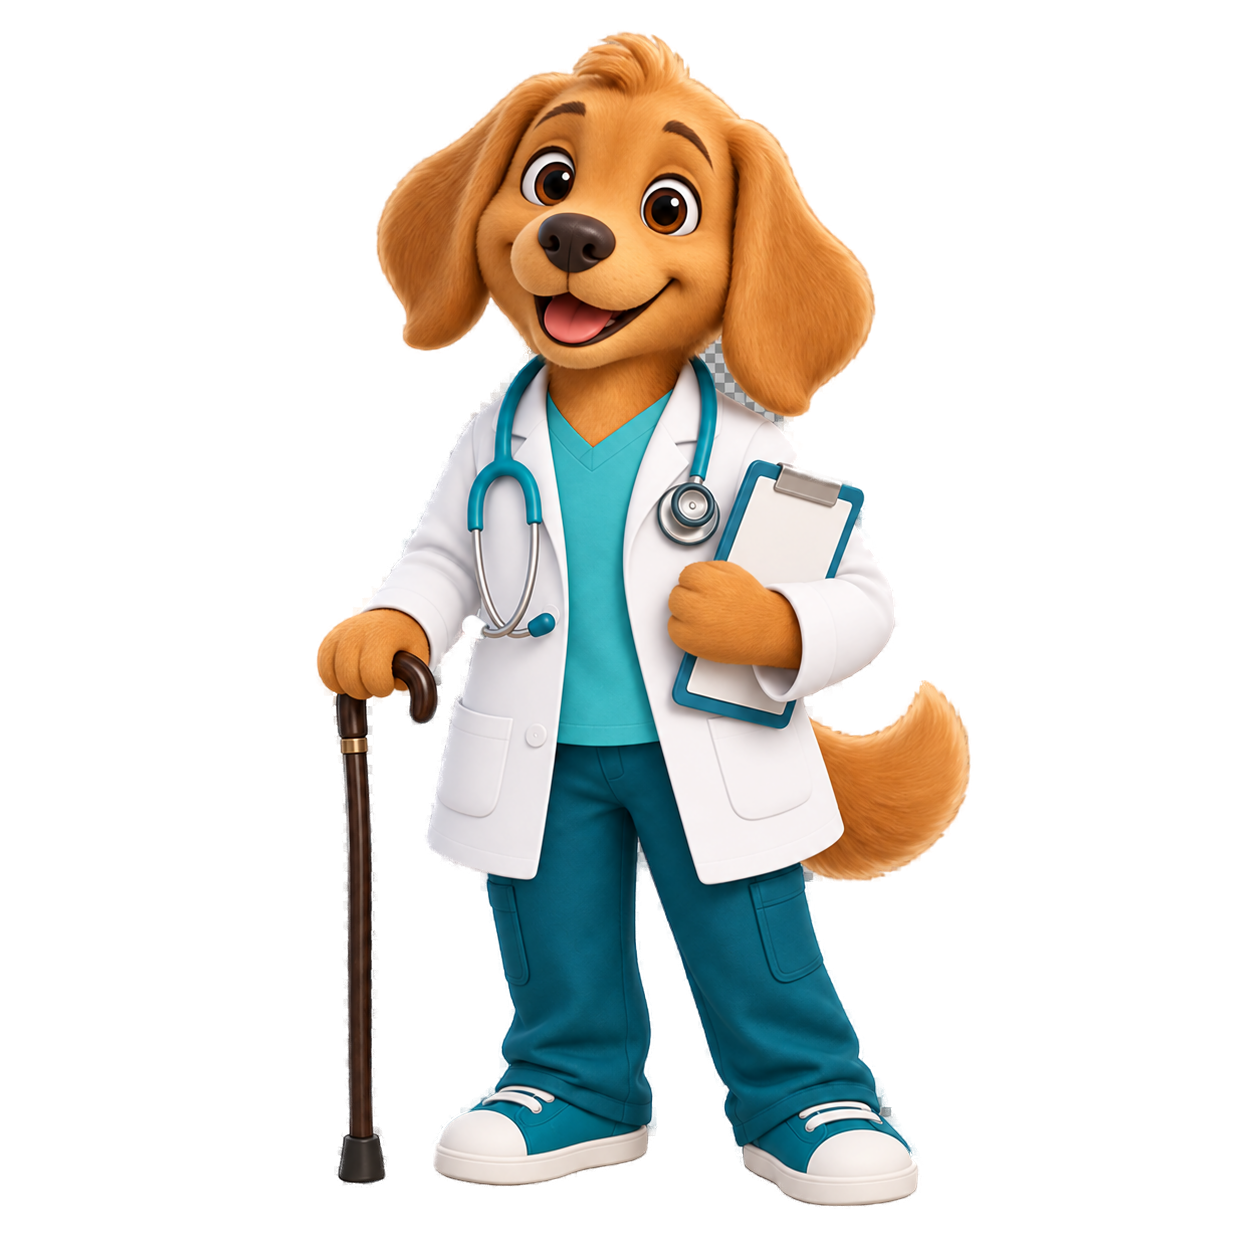
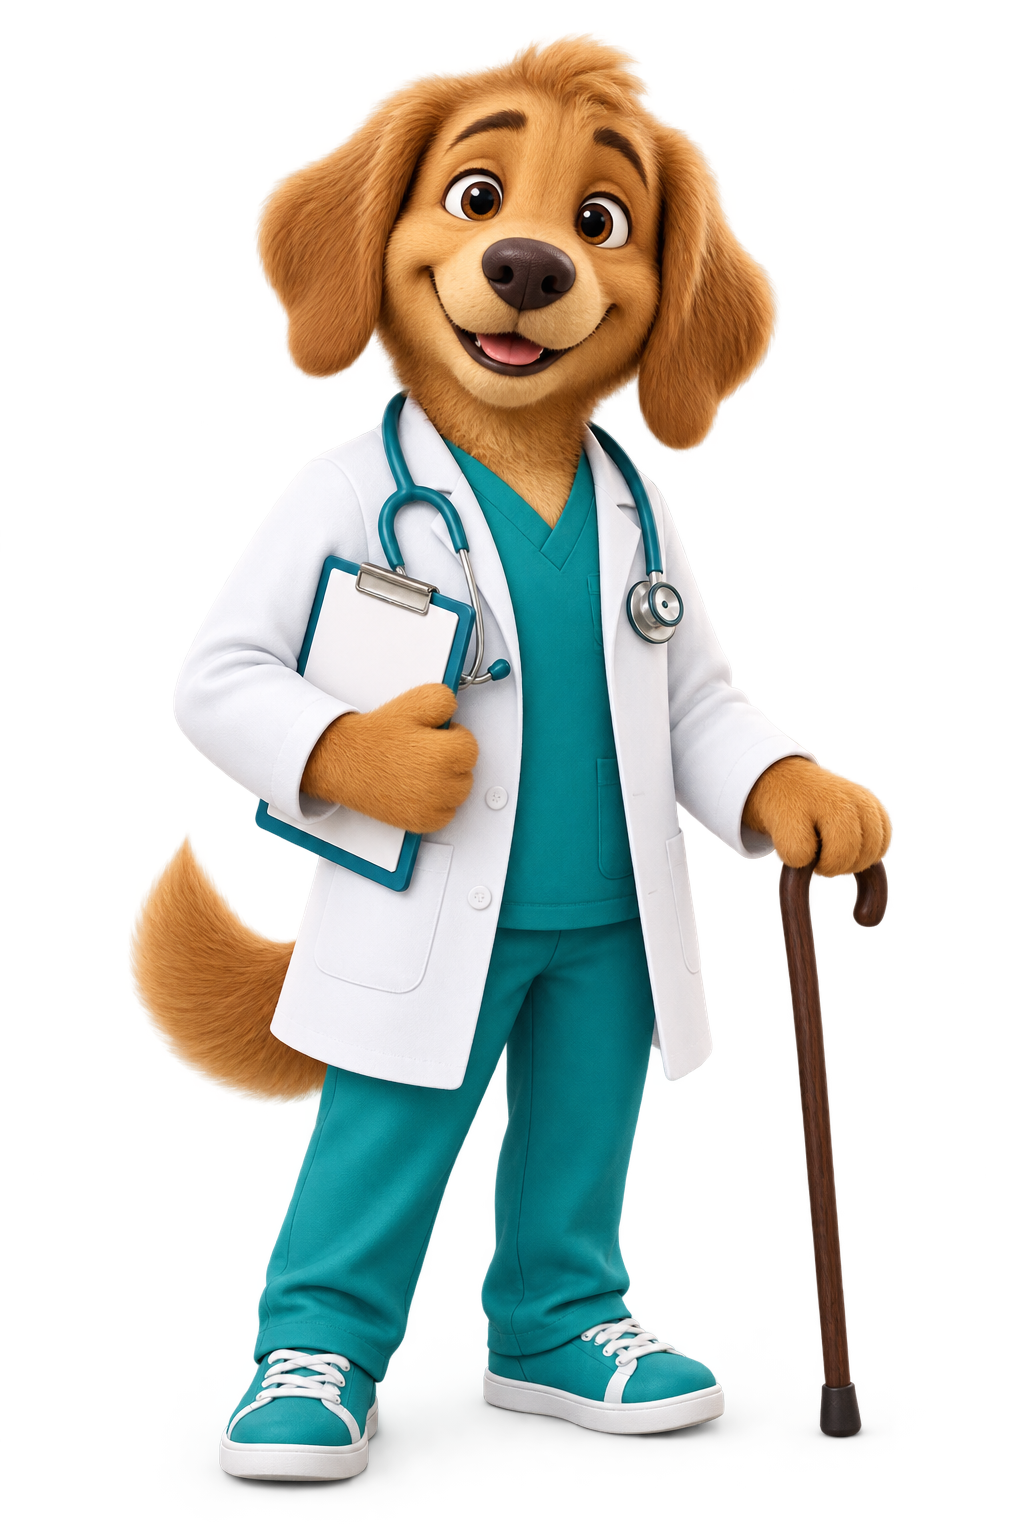
fix: regenerate doctor pulse artwork

diff --git a/gateway/static/js/presentation.js b/gateway/static/js/presentation.js
@@ -7,7 +7,7 @@ const AGENT_PRESENTATION = {
   outdoor_guide: { image: '/static/assets/characters/murka.webp', color: '#5f8f42', soft: '#edf5df', deep: '#385e32' },
   tech_guide: { image: '/static/assets/characters/baytik.webp', color: '#176b91', soft: '#e2f3f8', deep: '#173f64' },
   space_guide: { image: '/static/assets/characters/alice-selezneva.webp', color: '#7a4fc7', soft: '#eee8fb', deep: '#49317d' },
-  clinic_guide: { image: '/static/assets/characters/doctor-pulse.png?v=2', color: '#168b88', soft: '#dff5f2', deep: '#155d61' }
+  clinic_guide: { image: '/static/assets/characters/doctor-pulse.png?v=3', color: '#168b88', soft: '#dff5f2', deep: '#155d61' }
 };
 
 export const PROMPTS_BY_AGENT = {

diff --git a/gateway/tests/test_agents.py b/gateway/tests/test_agents.py
@@ -98,7 +98,7 @@ async def test_child_interface_javascript_modules_are_served(client: AsyncClient
     assert "from './js/image-upload.js?v=22'" in app.text
     assert "export const PROMPTS_BY_AGENT" in presentation.text
     assert (
-        "clinic_guide: { image: '/static/assets/characters/doctor-pulse.png?v=2'"
+        "clinic_guide: { image: '/static/assets/characters/doctor-pulse.png?v=3'"
         in presentation.text
     )
     assert "export async function preparePhotoForUpload" in image_upload.text
